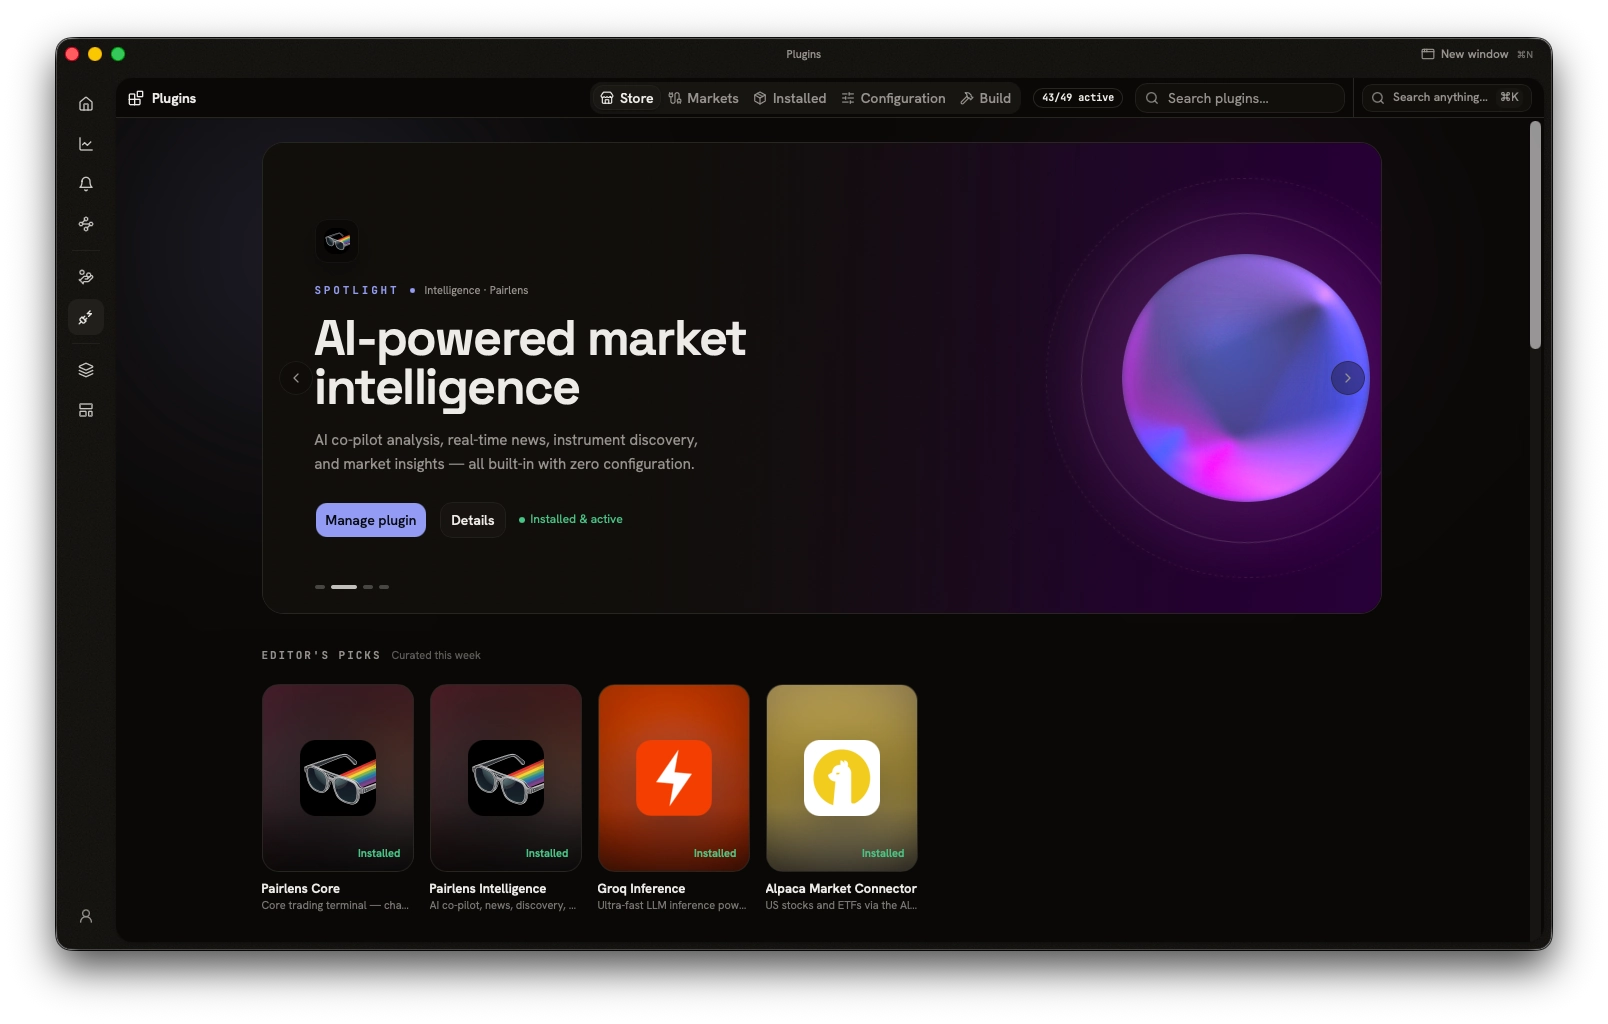
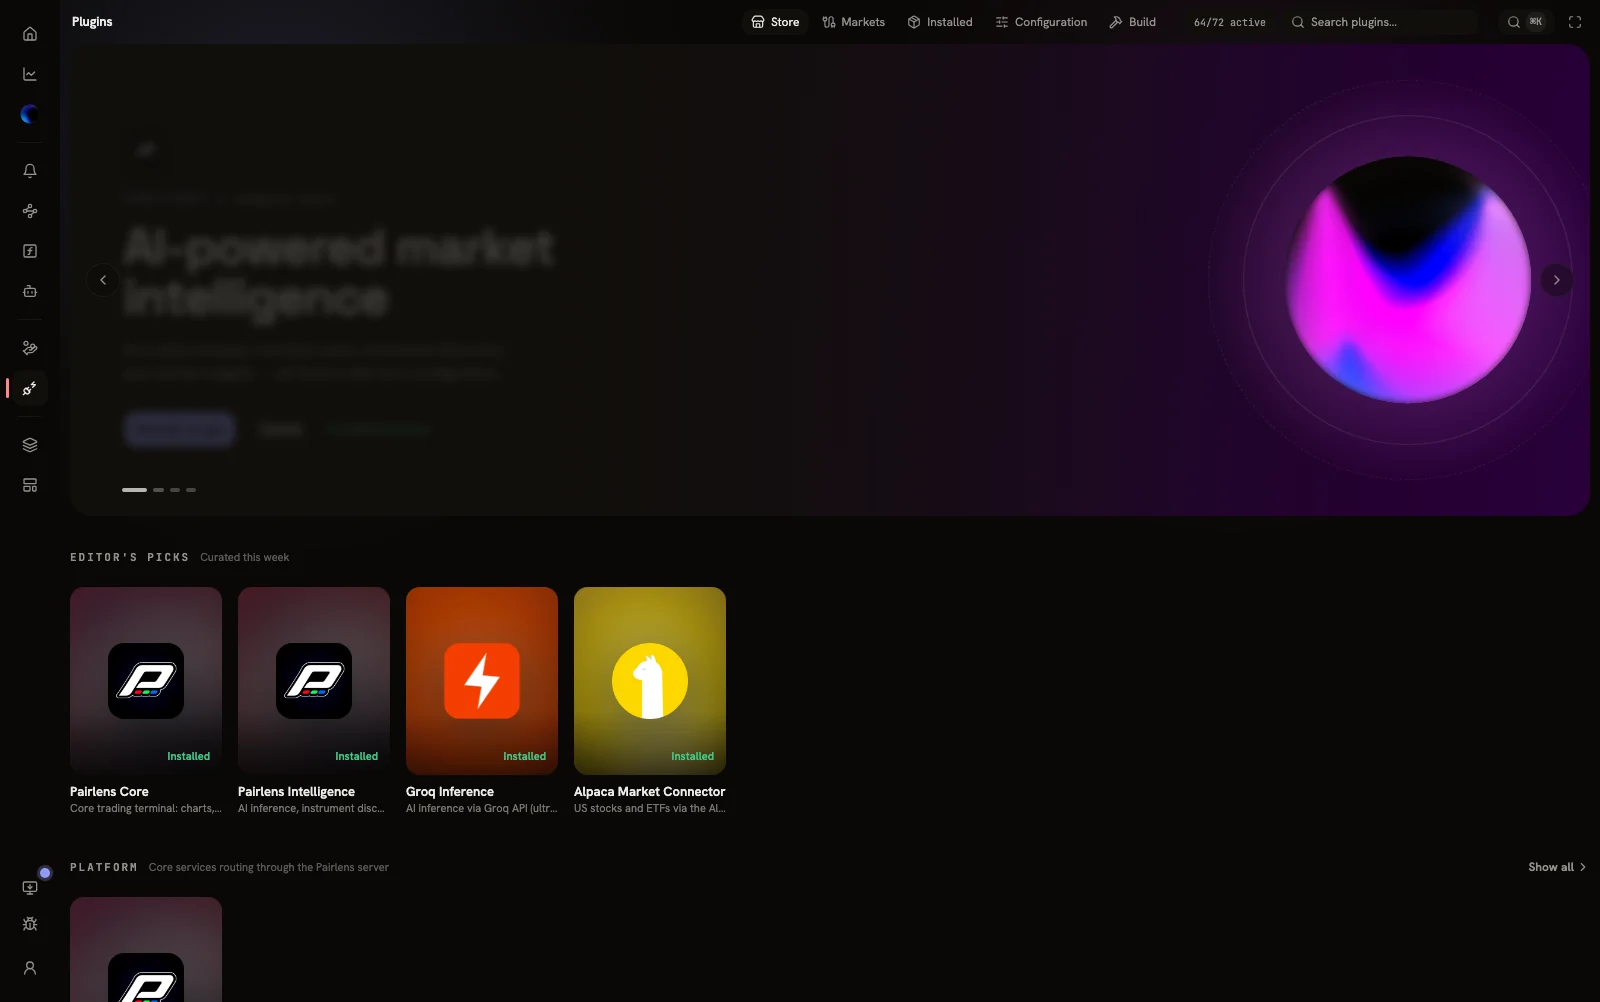
docs: recapture the README screenshots from the current terminal
The hero and the four feature shots still showed the old desktop UI. All
five are fresh captures of the running terminal at 1600x1002 @2x: the chart
view with the venue ladder, the Discover dashboard, the Cross-Venue Desk
workspace, the SuperTrend Python indicator running on a live chart, and the
Plugin Store. The indicators shot moves to WebP like the others, and the alt
text now describes what each frame shows.

diff --git a/README.md b/README.md
@@ -13,7 +13,7 @@ The kind of trading desk that usually costs thousands of dollars a year: free, p
 [![Platforms](https://img.shields.io/badge/platforms-macOS%20·%20Windows%20·%20Linux%20·%20Web-8b5cf6)](https://pairlens.finance/install)
 [![Built with Tauri](https://img.shields.io/badge/desktop-Tauri%202-24C8DB?logo=tauri&logoColor=white)](apps/desktop/)
 
-<a href="https://terminal.pairlens.finance"><img src="docs/assets/terminal.webp" alt="The Pairlens chart terminal: live BTC chart, order book, guarded order entry, and the AI assistant analyzing the market" width="100%" /></a>
+<a href="https://terminal.pairlens.finance"><img src="docs/assets/terminal.webp" alt="The Pairlens chart terminal: a live BTC-USDT chart on OKX beside the venue ladder, order book and guarded order entry" width="100%" /></a>
 
 </div>
 
@@ -29,10 +29,10 @@ The kind of trading desk that usually costs thousands of dollars a year: free, p
 <table>
   <tr>
     <td width="50%"><a href="https://pairlens.finance/#features"><img src="docs/assets/discovery.webp" alt="Discovery: markets overview, Fear and Greed, live news" /></a><p align="center"><sub><b>Discover</b> · markets, news, Fear &amp; Greed, top coins</sub></p></td>
-    <td width="50%"><a href="https://pairlens.finance/#features"><img src="docs/assets/workspaces.webp" alt="Workspaces: four charts comparing pairs side by side" /></a><p align="center"><sub><b>Workspaces</b> · parameterized multi-chart layouts</sub></p></td>
+    <td width="50%"><a href="https://pairlens.finance/#features"><img src="docs/assets/workspaces.webp" alt="Workspaces: the Cross-Venue Desk, one pair quoted on every venue beside the chart, tape, order book and ticket" /></a><p align="center"><sub><b>Workspaces</b> · parameterized multi-pane desks from the store</sub></p></td>
   </tr>
   <tr>
-    <td width="50%"><a href="https://pairlens.finance/#features"><img src="docs/assets/indicators.png" alt="Python indicator workbench: SuperTrend in real Python next to a live chart" /></a><p align="center"><sub><b>Python indicators</b> · real Python with pip packages, run locally</sub></p></td>
+    <td width="50%"><a href="https://pairlens.finance/#features"><img src="docs/assets/indicators.webp" alt="Python indicator workbench: SuperTrend in real Python next to a live chart" /></a><p align="center"><sub><b>Python indicators</b> · real Python with pip packages, run locally</sub></p></td>
     <td width="50%"><a href="https://pairlens.finance/#features"><img src="docs/assets/plugin-store.webp" alt="Plugin Store: connectors, AI providers, and themes as installable plugins" /></a><p align="center"><sub><b>Plugin Store</b> · connectors, AI providers, and themes</sub></p></td>
   </tr>
 </table>
